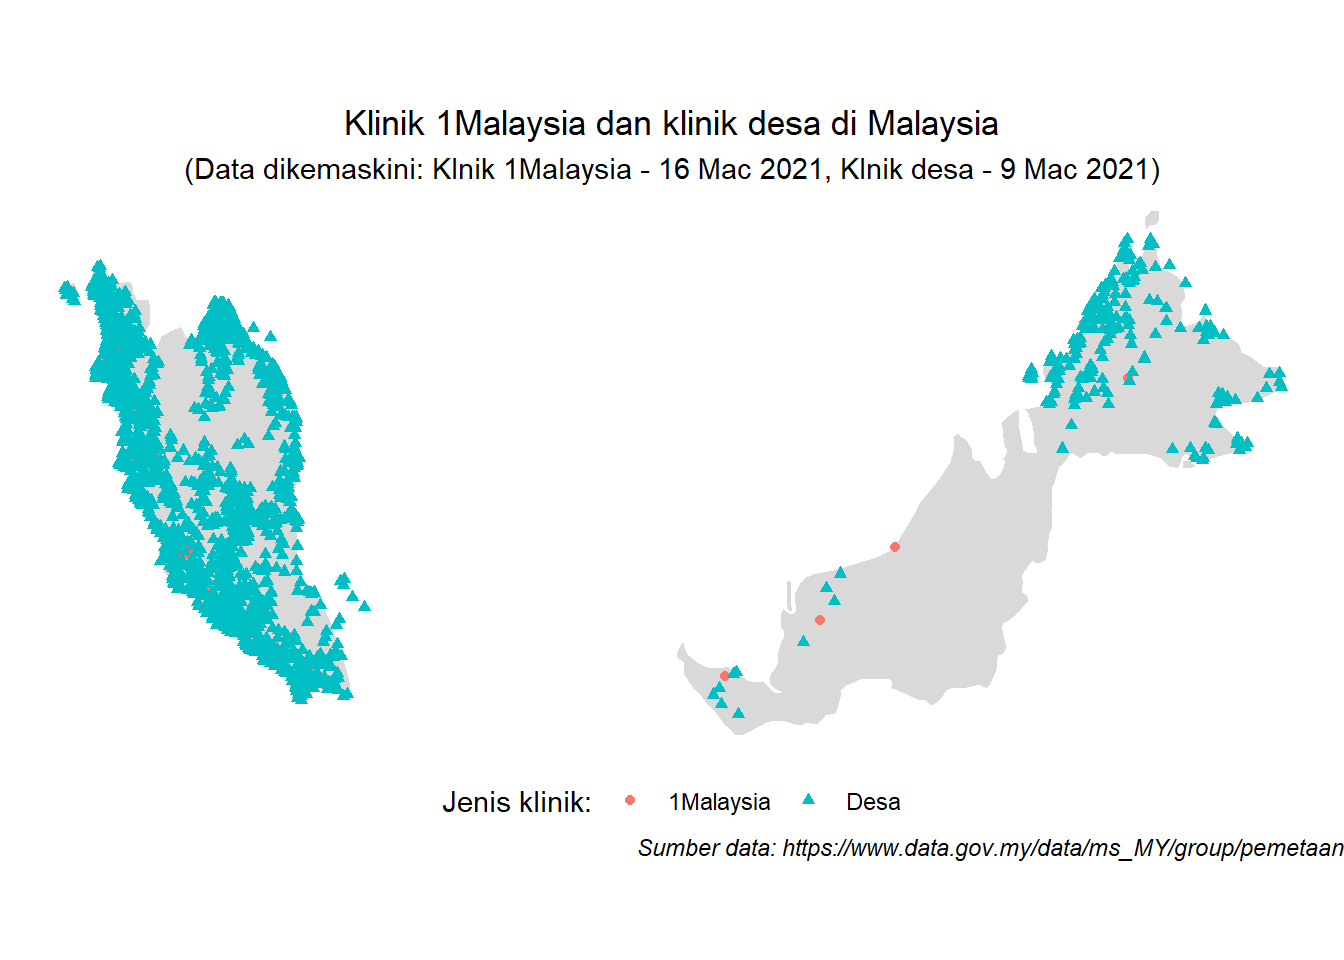
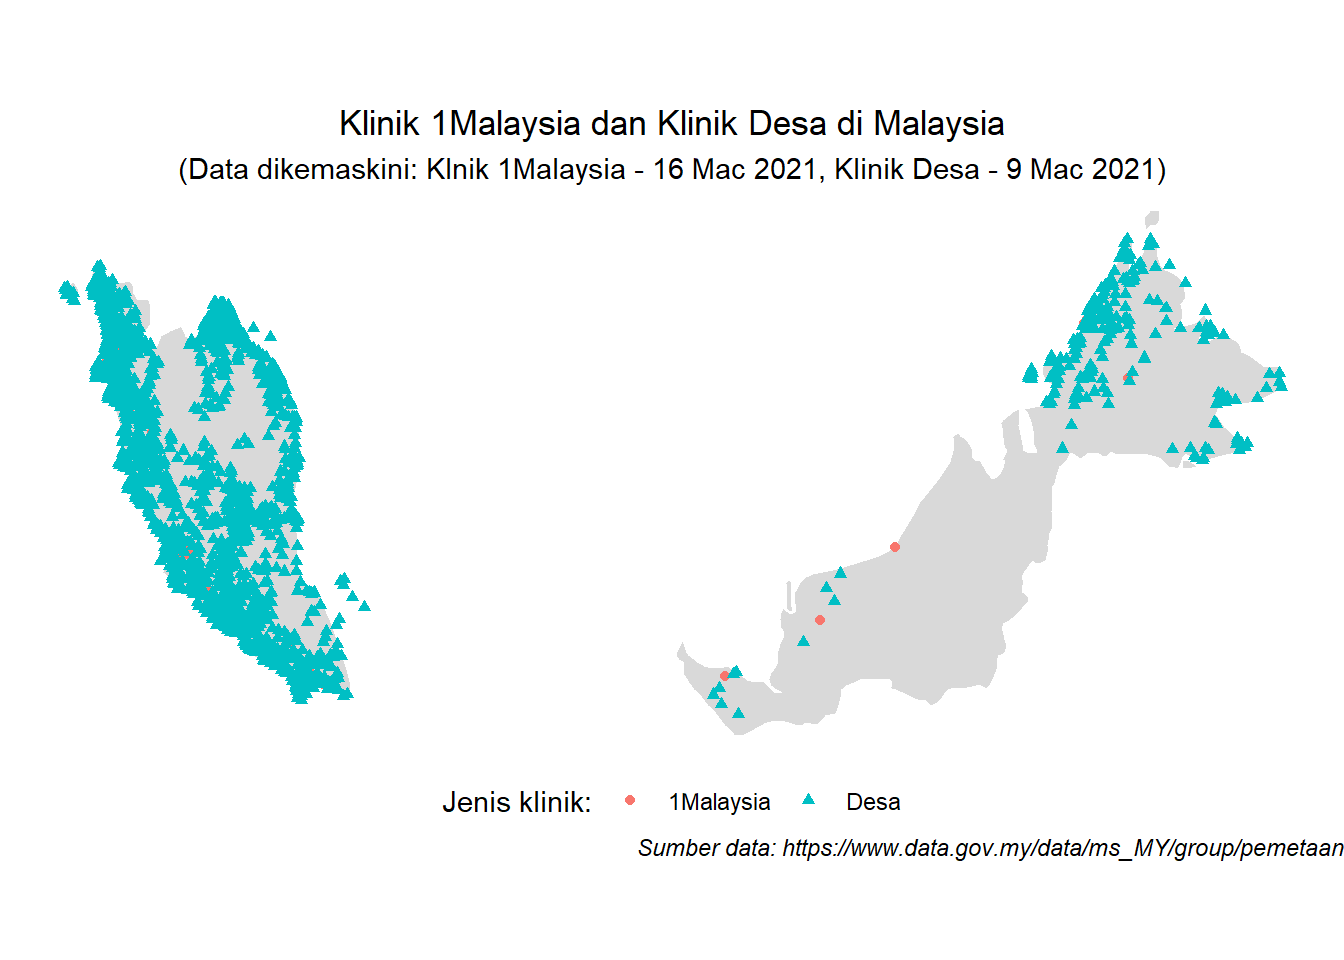
edit new post - first map in R

Changed region(s): [[0.125, 0.0938, 0.875, 0.1875]]

diff --git a/content/post/2021-11-12-making-maps-with-r-my-first-attempt-ever/index.en.html b/content/post/2021-11-12-making-maps-with-r-my-first-attempt-ever/index.en.html
@@ -25,7 +25,7 @@ projects: []
 <script src="{{< blogdown/postref >}}index.en_files/header-attrs/header-attrs.js"></script>
 
 
-<p>As written in the title of the post, this is my first try ever in making a map with R. I found a great data on the distributions of the clinic in Malaysia. The two types of clinic that we have here:</p>
+<p>As written in the title of the post, this is my first try ever in making a map with R. I found a great data on the distribution of the clinics in Malaysia. The two types of clinic that we have here:</p>
 <ol style="list-style-type: decimal">
 <li>Klinik 1Malaysia (1Malaysia clinic)</li>
 <li>Klinik Desa (Desa clinic)</li>
@@ -105,8 +105,8 @@ clinic1m2 &lt;-
   theme_void() + 
   xlab(&quot;Longitude&quot;) +
   ylab(&quot;Latitude&quot;) +
-  labs(title = &quot;Klinik 1Malaysia dan klinik desa di Malaysia&quot;, 
-       subtitle = &quot;(Data dikemaskini: Klnik 1Malaysia - 16 Mac 2021, Klnik desa - 9 Mac 2021)&quot;,
+  labs(title = &quot;Klinik 1Malaysia dan Klinik Desa di Malaysia&quot;, 
+       subtitle = &quot;(Data dikemaskini: Klnik 1Malaysia - 16 Mac 2021, Klinik Desa - 9 Mac 2021)&quot;,
        caption = expression(paste(italic(&quot;Sumber data: https://www.data.gov.my/data/ms_MY/group/pemetaan&quot;))), 
        color = &quot;Jenis klinik:&quot;, 
        shape = &quot;Jenis klinik:&quot;) +
@@ -128,8 +128,8 @@ msia &lt;- world[world@data$ADMIN == &quot;Malaysia&quot;, ]</code></pre>
   theme_minimal() + 
   xlab(&quot;Longitude&quot;) +
   ylab(&quot;Latitude&quot;) +
-  labs(title = &quot;Klinik 1Malaysia dan klinik desa di Malaysia&quot;, 
-       subtitle = &quot;(Data dikemaskini: Klnik 1Malaysia - 16 Mac 2021, Klnik desa - 9 Mac 2021)&quot;,
+  labs(title = &quot;Klinik 1Malaysia dan Klinik Desa di Malaysia&quot;, 
+       subtitle = &quot;(Data dikemaskini: Klnik 1Malaysia - 16 Mac 2021, Klinik Desa - 9 Mac 2021)&quot;,
        caption = expression(paste(italic(&quot;Sumber data: https://www.data.gov.my/data/ms_MY/group/pemetaan&quot;))), 
        color = &quot;Jenis klinik:&quot;, 
        shape = &quot;Jenis klinik:&quot;) +
